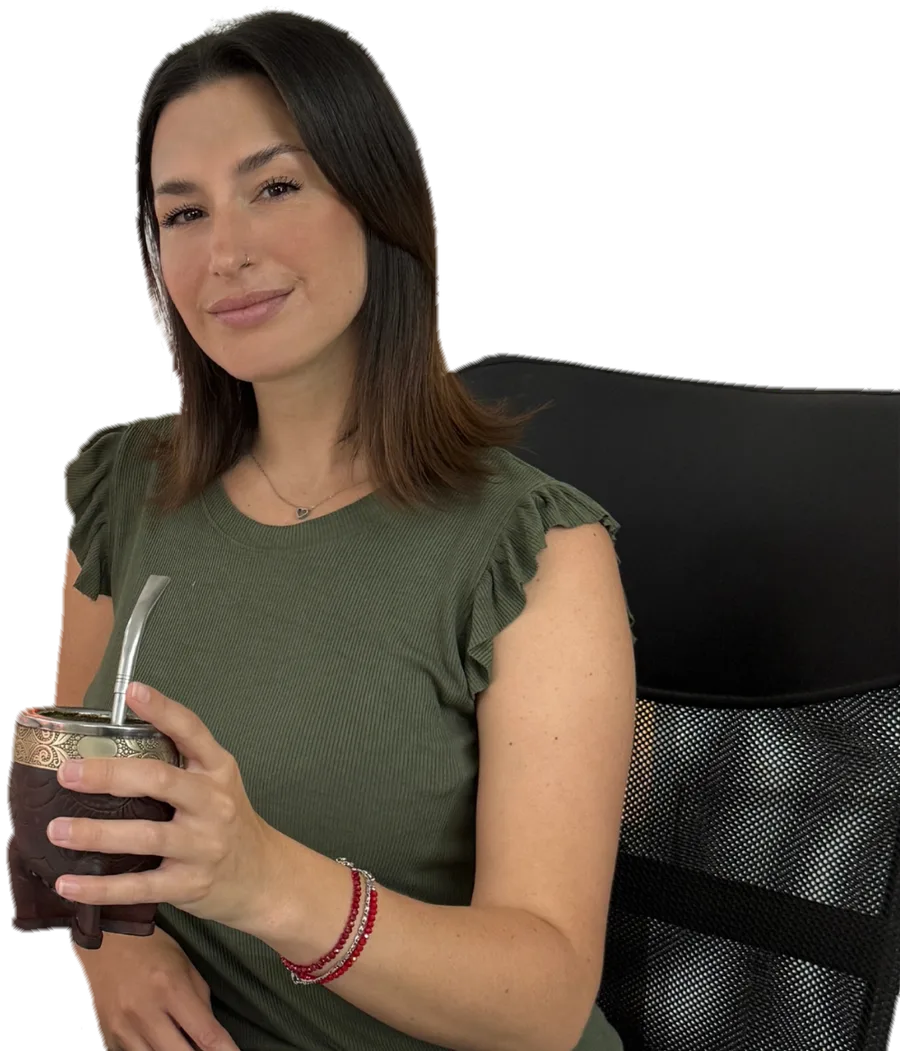
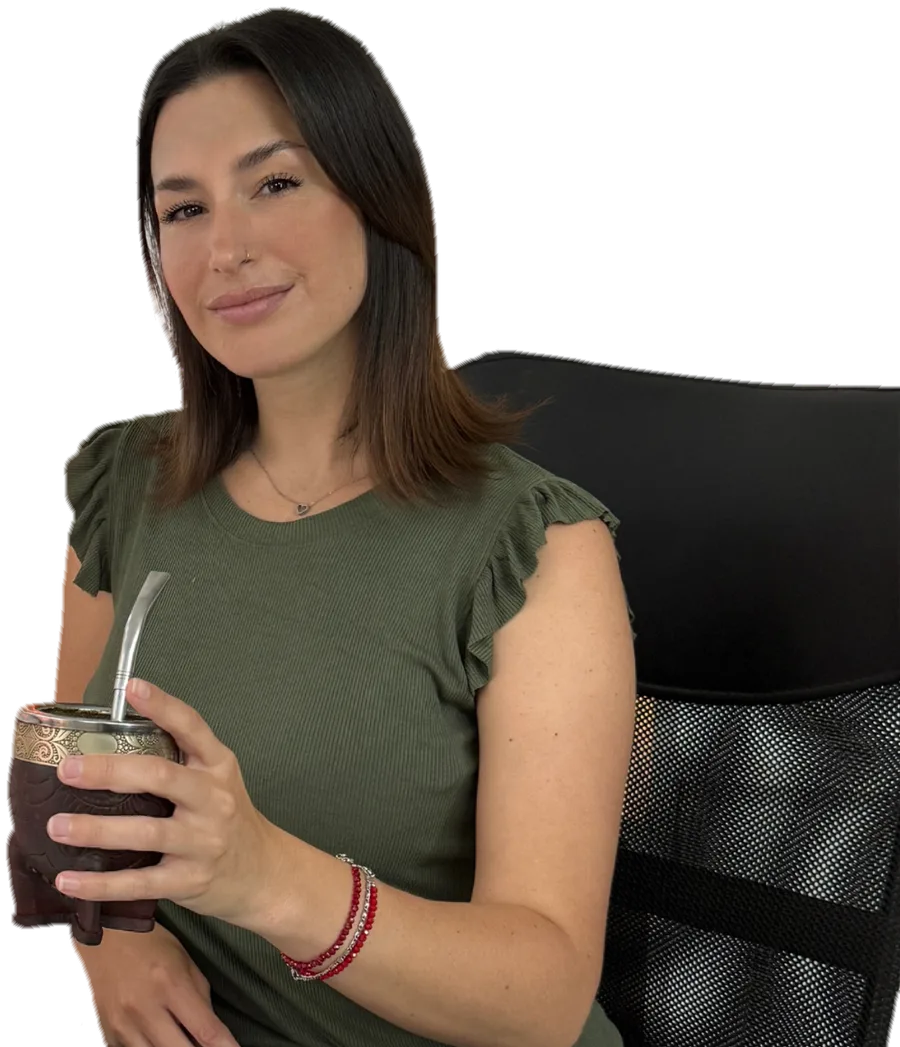
Fuente Vintage Valentine, recortes sin halo, fotos aparte en mobile, casos precargados y credito

diff --git a/src/styles.css b/src/styles.css
@@ -1,3 +1,12 @@
+/* Vintage Valentine (SiapGraph): subset latino. Ver nota de licencia en README.md */
+@font-face {
+  font-family: 'Vintage Valentine';
+  src: url('./assets/fonts/vintage-valentine.woff2') format('woff2');
+  font-weight: 400;
+  font-style: normal;
+  font-display: swap;
+}
+
 :root {
   /* paleta oficial MINNA */
   --black: #000000;
@@ -10,7 +19,6 @@
   --olive: #75724f;
   --sage: #a5a58f;
 
-  /* Vintage Valentine y Conteza no están cargadas todavía: ver README */
   --font-display: 'Vintage Valentine', 'Bagel Fat One', 'Chewy', system-ui, sans-serif;
   --font-body: 'Comfortaa', system-ui, sans-serif;
   --font-hand: 'Caveat Brush', cursive;
@@ -731,38 +739,28 @@ section {
   overflow: hidden;
 }
 .process__inner {
-  display: grid;
-  gap: 3rem;
-  max-width: 1200px;
-  margin: 0 auto;
-  align-items: center;
-}
-.process__media {
   position: relative;
-  width: min(86vw, 460px);
+  z-index: 1;
+  max-width: 1100px;
+  margin: 0 auto;
+}
+.process__blob {
+  position: absolute;
+  z-index: 0;
+  width: 70vw;
+  max-width: 480px;
   aspect-ratio: 1;
-  justify-self: center;
-}
-.process__back {
-  position: absolute;
-  inset: 6% 4% 0;
-  background: var(--pink);
-  border-radius: 58% 42% 55% 45% / 48% 56% 44% 52%;
-  animation: morph 10s ease-in-out infinite;
-}
-.process__laptop {
-  position: absolute;
-  left: 0;
-  bottom: 0;
-  width: 100%;
-  height: auto;
+  top: -6%;
+  right: -28%;
+  opacity: 0.45;
 }
 .process__star {
   position: absolute;
   width: 34px;
   color: var(--lime);
-  top: 4%;
-  right: 6%;
+  /* al lado del garabato, debajo del título */
+  top: calc(clamp(2.6rem, 10vw, 6rem) + 1.4rem);
+  left: 9rem;
 }
 .process__title {
   font-family: var(--font-display);
@@ -798,10 +796,10 @@ section {
   font-weight: 300;
   max-width: 42ch;
 }
-@media (min-width: 900px) {
-  .process__inner {
-    grid-template-columns: 0.9fr 1.1fr;
-    gap: 5rem;
+@media (min-width: 800px) {
+  .steps {
+    grid-template-columns: 1fr 1fr;
+    gap: 2rem 3rem;
   }
 }
 @media (hover: hover) {
@@ -921,6 +919,21 @@ section {
   cursor: ew-resize;
   touch-action: pan-y; /* scroll vertical normal, arrastre horizontal mueve el divisor */
   box-shadow: 10px 12px 0 var(--pink);
+}
+/* las dos cuentas están cargadas siempre; al cambiar solo se hace un fundido */
+.ba__set {
+  position: absolute;
+  inset: 0;
+  opacity: 0;
+  visibility: hidden;
+  transition:
+    opacity 0.35s,
+    visibility 0s 0.35s;
+}
+.ba__set.is-on {
+  opacity: 1;
+  visibility: visible;
+  transition: opacity 0.35s;
 }
 .ba__img {
   position: absolute;
@@ -1316,86 +1329,6 @@ section {
   height: auto;
 }
 
-/* ---------- mobile: las fotos pasan a ser fondo (el texto siempre queda arriba) ---------- */
-@media (max-width: 899px) {
-  .hero {
-    grid-template-columns: minmax(0, 1fr);
-    align-content: start;
-    padding-bottom: 3.5rem;
-  }
-  .hero__stage {
-    position: absolute;
-    right: -30%;
-    bottom: 0;
-    width: min(125vw, 620px);
-    z-index: 0;
-    pointer-events: none;
-  }
-  .hero__back,
-  .hero__photo {
-    opacity: 0.42;
-  }
-  /* suaviza el corte recto del lado izquierdo de la foto */
-  .hero__photo,
-  .delegate__photo,
-  .process__laptop,
-  .cta__photo {
-    -webkit-mask-image: linear-gradient(90deg, transparent 0, #000 16%);
-    mask-image: linear-gradient(90deg, transparent 0, #000 16%);
-  }
-  .hero__kicker,
-  .hero__title,
-  .hero__sub {
-    text-shadow: 0 2px 22px rgba(39, 59, 9, 0.75);
-  }
-
-  .process__inner {
-    position: relative;
-  }
-  .process__media {
-    position: absolute;
-    top: -1rem;
-    right: -22%;
-    width: min(100vw, 460px);
-    opacity: 0.4;
-    z-index: 0;
-    pointer-events: none;
-  }
-  .process__body {
-    position: relative;
-    z-index: 1;
-  }
-
-  .cta {
-    padding-bottom: 3rem;
-  }
-  .cta .cta__stage {
-    position: absolute;
-    left: 50%;
-    bottom: 0;
-    width: min(115vw, 540px);
-    margin: 0;
-    transform: translateX(-50%);
-    opacity: 0.38;
-    z-index: 0;
-    pointer-events: none;
-  }
-}
-@media (max-width: 799px) {
-  .delegate__photo {
-    position: absolute;
-    right: -14%;
-    bottom: 0;
-    width: min(112%, 520px);
-    z-index: -1;
-    opacity: 0.5;
-    pointer-events: none;
-  }
-  .checks {
-    padding-bottom: 3.2rem;
-  }
-}
-
 /* ---------- desktop: cierre en dos columnas (texto + foto, sin taparse) ---------- */
 @media (min-width: 900px) {
   .cta {
@@ -1463,6 +1396,18 @@ section {
 }
 .footer a {
   font-weight: 600;
+}
+.footer__credit {
+  flex-basis: 100%;
+  text-align: center;
+  padding-top: 0.9rem;
+  margin-top: 0.3rem;
+  border-top: 1px solid rgba(39, 59, 9, 0.25);
+  font-size: 0.8rem;
+}
+.footer__credit a {
+  text-decoration-thickness: 2px;
+  text-underline-offset: 3px;
 }
 
 /* ---------- movimiento reducido ---------- */

diff --git a/src/components/Process.jsx b/src/components/Process.jsx
@@ -2,7 +2,6 @@ import { useRef } from 'react'
 import { gsap, useGSAP, parallax, revealWords, OK } from '../lib/motion'
 import SplitWords from './SplitWords'
 import { Star, Squiggle } from './Doodles'
-import laptop from '../assets/img/minna-laptop.webp'
 
 const STEPS = [
   ['Comunicación clara', 'Coordinamos contenido e ideas de forma simple y directa.'],
@@ -26,21 +25,7 @@ export default function Process() {
           duration: 0.9,
           stagger: 0.1,
           ease: 'power4.out',
-          scrollTrigger: { trigger: '.steps', start: 'top 85%', once: true },
-        })
-        gsap.from('.process__laptop', {
-          y: 100,
-          opacity: 0,
-          duration: 1.3,
-          ease: 'expo.out',
-          scrollTrigger: { trigger: '.process__media', start: 'top 90%', once: true },
-        })
-        gsap.from('.process__back', {
-          scale: 0.4,
-          opacity: 0,
-          duration: 1.4,
-          ease: 'expo.out',
-          scrollTrigger: { trigger: '.process__media', start: 'top 90%', once: true },
+          scrollTrigger: { trigger: '.steps', start: 'top 88%', once: true },
         })
         parallax(root.current)
       })
@@ -51,32 +36,19 @@ export default function Process() {
 
   return (
     <section className="process" ref={root}>
+      <div className="blob blob--olive process__blob" data-speed="0.3" />
       <div className="process__inner">
-        <div className="process__media">
-          <div className="process__back" />
-          <img
-            className="process__laptop"
-            src={laptop}
-            width="900"
-            height="929"
-            loading="lazy"
-            alt="Minna trabajando en su laptop con auriculares"
-          />
-          <Star className="process__star float" />
-        </div>
-
-        <div className="process__body">
-          <SplitWords as="h2" className="process__title" text="Forma de *trabajo*" mask />
-          <Squiggle className="process__squiggle" />
-          <ul className="steps">
-            {STEPS.map(([t, d]) => (
-              <li className="step" key={t} data-cursor>
-                <h3>{t}</h3>
-                <p>{d}</p>
-              </li>
-            ))}
-          </ul>
-        </div>
+        <SplitWords as="h2" className="process__title" text="Forma de *trabajo*" mask />
+        <Squiggle className="process__squiggle" />
+        <ul className="steps">
+          {STEPS.map(([t, d]) => (
+            <li className="step" key={t} data-cursor>
+              <h3>{t}</h3>
+              <p>{d}</p>
+            </li>
+          ))}
+        </ul>
+        <Star className="process__star float" />
       </div>
     </section>
   )

diff --git a/src/components/Cases.jsx b/src/components/Cases.jsx
@@ -33,7 +33,7 @@ const CASES = [
 const clamp = (v) => Math.min(100, Math.max(0, v))
 
 // El divisor se arrastra desde cualquier punto de la imagen (no solo desde la barra).
-function BeforeAfter({ before, after, pos, setPos, onTouch }) {
+function BeforeAfter({ cases, active, pos, setPos, onTouch }) {
   const box = useRef()
   const dragging = useRef(false)
 
@@ -80,15 +80,29 @@ function BeforeAfter({ before, after, pos, setPos, onTouch }) {
         onPointerCancel={() => (dragging.current = false)}
         onKeyDown={onKeyDown}
       >
-        <img className="ba__img" src={before} width="640" height="1053" alt="Perfil de Instagram antes del trabajo" draggable="false" />
-        <img
-          className="ba__img ba__img--after"
-          src={after}
-          width="640"
-          height="1053"
-          alt="Perfil de Instagram después del trabajo"
-          draggable="false"
-        />
+        {/* todas las cuentas viven en el DOM: cambiar de una a otra no carga imágenes */}
+        {cases.map((k, i) => (
+          <div className={`ba__set ${i === active ? 'is-on' : ''}`} key={k.id} aria-hidden={i !== active}>
+            <img
+              className="ba__img"
+              src={k.imgs[0]}
+              width="640"
+              height="1053"
+              alt={i === active ? `Perfil de ${k.name} antes del trabajo` : ''}
+              draggable="false"
+              decoding="sync"
+            />
+            <img
+              className="ba__img ba__img--after"
+              src={k.imgs[1]}
+              width="640"
+              height="1053"
+              alt={i === active ? `Perfil de ${k.name} después del trabajo` : ''}
+              draggable="false"
+              decoding="sync"
+            />
+          </div>
+        ))}
         <span className="ba__line" aria-hidden>
           <span className="ba__knob">‹ ›</span>
         </span>
@@ -175,7 +189,7 @@ export default function Cases() {
       </div>
 
       <div className="cases__stage">
-        <BeforeAfter before={c.imgs[0]} after={c.imgs[1]} pos={pos} setPos={setPos} onTouch={stopDemo} />
+        <BeforeAfter cases={CASES} active={active} pos={pos} setPos={setPos} onTouch={stopDemo} />
 
         <div className="cases__info" key={c.id}>
           <p className="cases__moves">

diff --git a/src/App.jsx b/src/App.jsx
@@ -66,6 +66,9 @@ export default function App() {
         <a href="https://www.instagram.com/daianaimpini" target="_blank" rel="noreferrer">
           @daianaimpini
         </a>
+        <p className="footer__credit">
+          Creado por <a href="mailto:ailinfillion@gmail.com">ailinfillion</a>
+        </p>
       </footer>
     </>
   )

diff --git a/README.md b/README.md
@@ -1,0 +1,32 @@
+# MINNA — landing page
+
+React + Vite + GSAP. Se publica en GitHub Pages con cada push a `main` (ver `.github/workflows/deploy.yml`).
+
+```bash
+npm install
+npm run dev      # desarrollo
+npm run build    # produce dist/
+```
+
+## Datos que se cambian en un solo lugar
+
+`src/config.js` → link al mensaje directo de Instagram.
+
+## Tipografías
+
+- **Comfortaa** (cuerpo) y **Caveat Brush** (notas a mano): Google Fonts.
+- **Vintage Valentine** (títulos): archivo propio en `src/assets/fonts/vintage-valentine.woff2`
+  (subset latino convertido desde el `.otf` original de SiapGraph).
+
+### Licencia de Vintage Valentine
+
+La versión descargada de BeFonts es **solo para uso personal**. Para usarla en un sitio de un
+servicio comercial hace falta la licencia *Corporate* del diseñador:
+<https://siapgraph.com/>. Mientras no se compre, conviene considerar el sitio como no licenciado
+para esta fuente.
+
+## Imágenes
+
+Los recortes de Minna (`src/assets/img/minna-*.webp`) tienen el fondo blanco eliminado
+(transparencia). La flor del logo (`flower.png`) se usa como máscara CSS, por eso toma el color
+del texto en cada sección.
